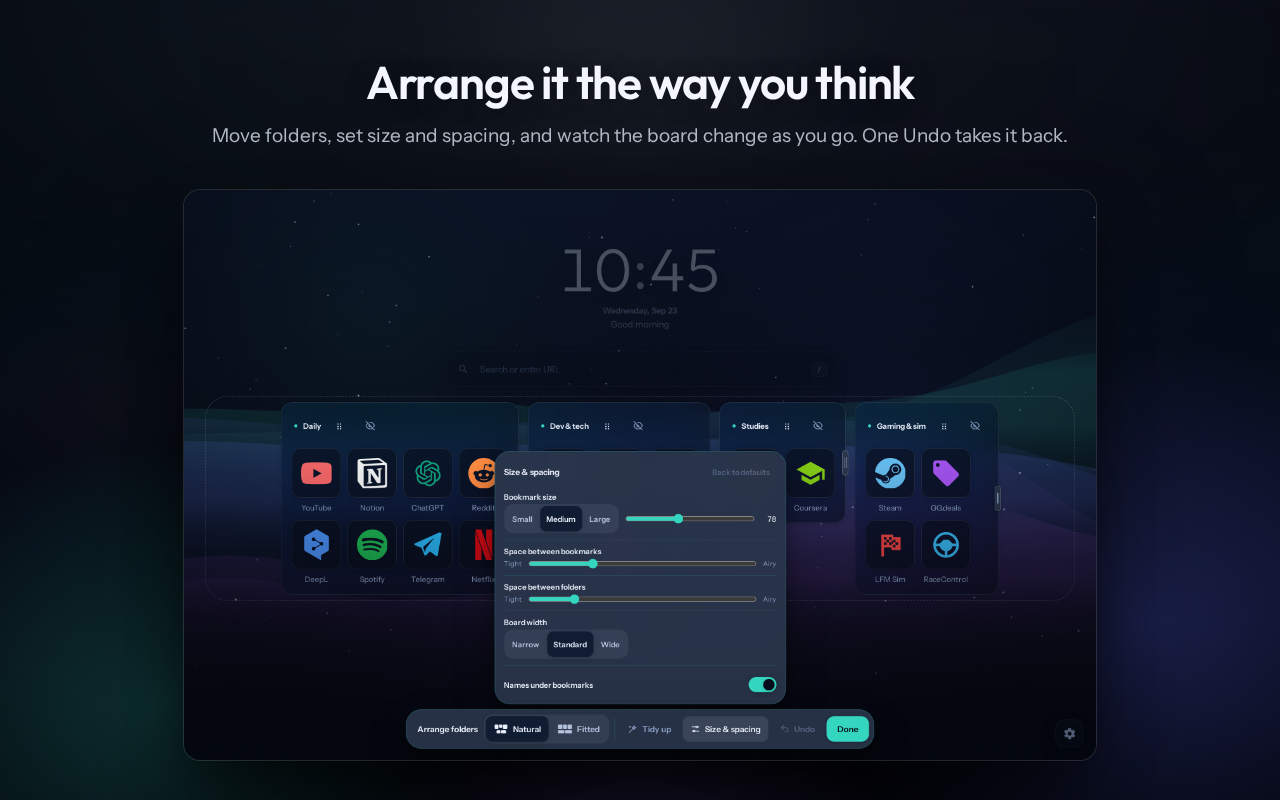
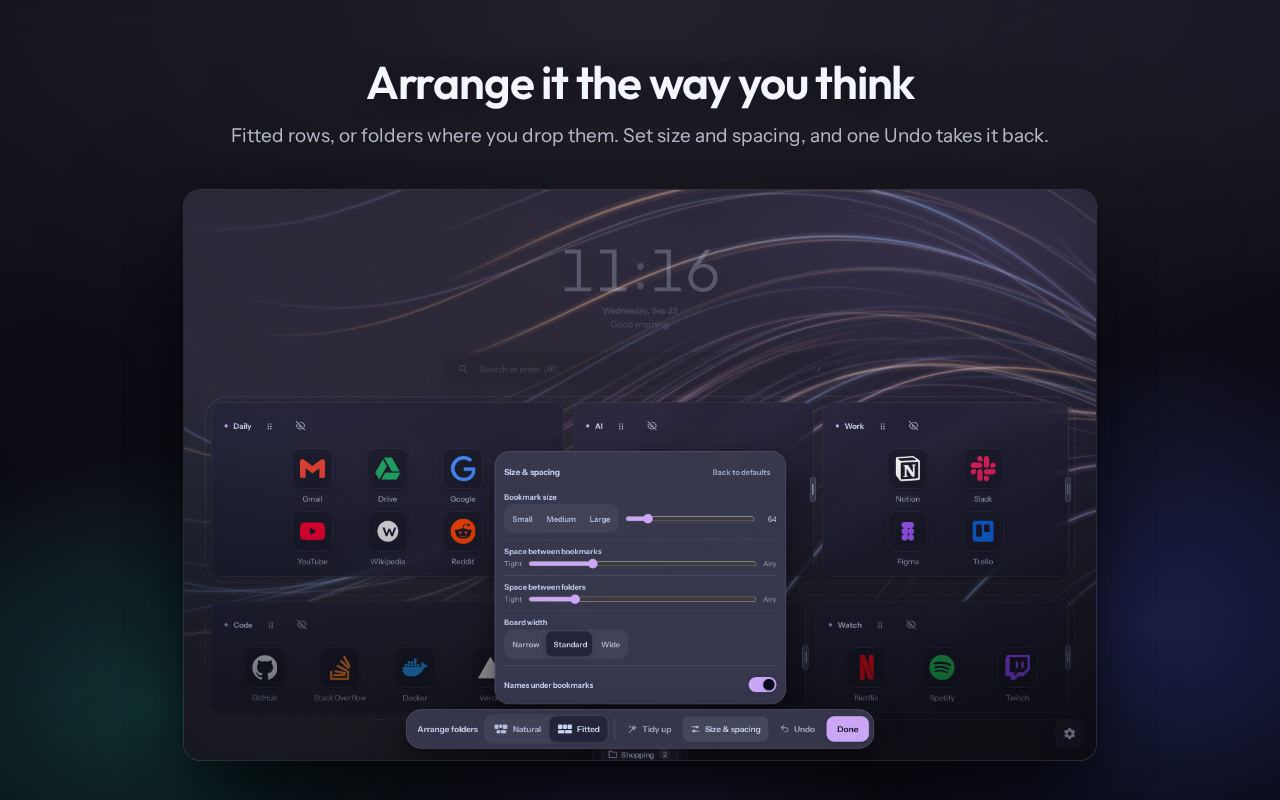
feat: store screenshots on a board anyone recognises, each in its own look
The five screenshots and the marquee are now taken from boards of well-known
sites (tools/artwork/store-board.cjs), one theme and scene per picture:
Aurora Void on Nordlys, Catppuccin Mocha on Silk in Fitted rows, Tokyo Night
on Halo, Dracula Velvet on Contour through the day, Porcelain Light beside
Gruvbox Dark, and Boreal Emerald for the marquee. Every look is one the
settings make. The bundled Claude icon was drawn as a letter R; it is the
Claude mark now.

diff --git a/src/js/icons-db.js b/src/js/icons-db.js
@@ -22,7 +22,7 @@ const ICONS_DB = {
 
   // ── AI & Machine Learning ─────────────────────────────────────────
   openai: { name: "ChatGPT", cat: "tech", vb: "0 0 24 24", p: "M20.562 10.188c.25-.688.313-1.376.25-2.063c-.062-.687-.312-1.375-.625-2c-.562-.937-1.375-1.687-2.312-2.125c-1-.437-2.063-.562-3.125-.312c-.5-.5-1.063-.938-1.688-1.25S11.687 2 11 2a5.17 5.17 0 0 0-3 .938c-.875.624-1.5 1.5-1.813 2.5c-.75.187-1.375.5-2 .875c-.562.437-1 1-1.375 1.562c-.562.938-.75 2-.625 3.063a5.44 5.44 0 0 0 1.25 2.874a4.7 4.7 0 0 0-.25 2.063c.063.688.313 1.375.625 2c.563.938 1.375 1.688 2.313 2.125c1 .438 2.062.563 3.125.313c.5.5 1.062.937 1.687 1.25S12.312 22 13 22a5.17 5.17 0 0 0 3-.937c.875-.625 1.5-1.5 1.812-2.5a4.54 4.54 0 0 0 1.938-.875c.562-.438 1.062-.938 1.375-1.563c.562-.937.75-2 .625-3.062c-.125-1.063-.5-2.063-1.188-2.876m-7.5 10.5c-1 0-1.75-.313-2.437-.875c0 0 .062-.063.125-.063l4-2.312a.5.5 0 0 0 .25-.25a.57.57 0 0 0 .062-.313V11.25l1.688 1v4.625a3.685 3.685 0 0 1-3.688 3.813M5 17.25c-.438-.75-.625-1.625-.438-2.5c0 0 .063.063.125.063l4 2.312a.56.56 0 0 0 .313.063c.125 0 .25 0 .312-.063l4.875-2.812v1.937l-4.062 2.375A3.7 3.7 0 0 1 7.312 19c-1-.25-1.812-.875-2.312-1.75M3.937 8.563a3.8 3.8 0 0 1 1.938-1.626v4.751c0 .124 0 .25.062.312a.5.5 0 0 0 .25.25l4.875 2.813l-1.687 1l-4-2.313a3.7 3.7 0 0 1-1.75-2.25c-.25-.937-.188-2.062.312-2.937M17.75 11.75l-4.875-2.812l1.687-1l4 2.312c.625.375 1.125.875 1.438 1.5s.5 1.313.437 2.063a3.7 3.7 0 0 1-.75 1.937c-.437.563-1 1-1.687 1.25v-4.75c0-.125 0-.25-.063-.312c0 0-.062-.126-.187-.188m1.687-2.5s-.062-.062-.125-.062l-4-2.313c-.125-.062-.187-.062-.312-.062s-.25 0-.313.062L9.812 9.688V7.75l4.063-2.375c.625-.375 1.312-.5 2.062-.5c.688 0 1.375.25 2 .688c.563.437 1.063 1 1.313 1.625s.312 1.375.187 2.062m-10.5 3.5l-1.687-1V7.063c0-.688.187-1.438.562-2C8.187 4.438 8.75 4 9.375 3.688a3.37 3.37 0 0 1 2.062-.313c.688.063 1.375.375 1.938.813c0 0-.063.062-.125.062l-4 2.313a.5.5 0 0 0-.25.25c-.063.125-.063.187-.063.312zm.875-2L12 9.5l2.187 1.25v2.5L12 14.5l-2.188-1.25z" },
-  claude: { name: "Claude / Anthropic", cat: "tech", vb: "0 0 24 24", p: "M17.41 19.83h-3.46l-1.95-5.18h-2.9v5.18H5.97V4.17h6.63c3.08 0 4.81 1.87 4.81 4.39 0 1.83-.98 3.25-2.61 3.91l2.61 7.36zm-5.18-8.91c1.38 0 2.04-.79 2.04-1.85 0-1.07-.66-1.84-2.04-1.84H9.1v3.69h3.13z" },
+  claude: { name: "Claude / Anthropic", cat: "tech", vb: "0 0 24 24", p: "m4.7144 15.9555 4.7174-2.6471.079-.2307-.079-.1275h-.2307l-.7893-.0486-2.6956-.0729-2.3375-.0971-2.2646-.1214-.5707-.1215-.5343-.7042.0546-.3522.4797-.3218.686.0608 1.5179.1032 2.2767.1578 1.6514.0972 2.4468.255h.3886l.0546-.1579-.1336-.0971-.1032-.0972L6.973 9.8356l-2.55-1.6879-1.3356-.9714-.7225-.4918-.3643-.4614-.1578-1.0078.6557-.7225.8803.0607.2246.0607.8925.686 1.9064 1.4754 2.4893 1.8336.3643.3035.1457-.1032.0182-.0728-.164-.2733-1.3539-2.4467-1.445-2.4893-.6435-1.032-.17-.6194c-.0607-.255-.1032-.4674-.1032-.7285L6.287.1335 6.6997 0l.9957.1336.419.3642.6192 1.4147 1.0018 2.2282 1.5543 3.0296.4553.8985.2429.8318.091.255h.1579v-.1457l.1275-1.706.2368-2.0947.2307-2.6957.0789-.7589.3764-.9107.7468-.4918.5828.2793.4797.686-.0668.4433-.2853 1.8517-.5586 2.9021-.3643 1.9429h.2125l.2429-.2429.9835-1.3053 1.6514-2.0643.7286-.8196.85-.9046.5464-.4311h1.0321l.759 1.1293-.34 1.1657-1.0625 1.3478-.8804 1.1414-1.2628 1.7-.7893 1.36.0729.1093.1882-.0183 2.8535-.607 1.5421-.2794 1.8396-.3157.8318.3886.091.3946-.3278.8075-1.967.4857-2.3072.4614-3.4364.8136-.0425.0304.0486.0607 1.5482.1457.6618.0364h1.621l3.0175.2247.7892.522.4736.6376-.079.4857-1.2142.6193-1.6393-.3886-3.825-.9107-1.3113-.3279h-.1822v.1093l1.0929 1.0686 2.0035 1.8092 2.5075 2.3314.1275.5768-.3218.4554-.34-.0486-2.2039-1.6575-.85-.7468-1.9246-1.621h-.1275v.17l.4432.6496 2.3436 3.5214.1214 1.0807-.17.3521-.6071.2125-.6679-.1214-1.3721-1.9246L14.38 17.959l-1.1414-1.9428-.1397.079-.674 7.2552-.3156.3703-.7286.2793-.6071-.4614-.3218-.7468.3218-1.4753.3886-1.9246.3157-1.53.2853-1.9004.17-.6314-.0121-.0425-.1397.0182-1.4328 1.9672-2.1796 2.9446-1.7243 1.8456-.4128.164-.7164-.3704.0667-.6618.4008-.5889 2.386-3.0357 1.4389-1.882.929-1.0868-.0062-.1579h-.0546l-6.3385 4.1164-1.1293.1457-.4857-.4554.0608-.7467.2307-.2429 1.9064-1.3114Z" },
   gemini: { name: "Gemini", cat: "tech", vb: "0 0 24 24", p: "M11.04 19.32Q12 21.51 12 24q0-2.49.93-4.68.96-2.19 2.58-3.81t3.81-2.55Q21.51 12 24 12q-2.49 0-4.68-.93a12.3 12.3 0 0 1-3.81-2.58 12.3 12.3 0 0 1-2.58-3.81Q12 2.49 12 0q0 2.49-.96 4.68-.93 2.19-2.55 3.81a12.3 12.3 0 0 1-3.81 2.58Q2.49 12 0 12q2.49 0 4.68.96 2.19.93 3.81 2.55t2.55 3.81" },
   perplexity: { name: "Perplexity", cat: "tech", vb: "0 0 24 24", p: "M22.3977 7.0896h-2.3106V.0676l-7.5094 6.3542V.1577h-1.1554v6.1966L4.4904 0v7.0896H1.6023v10.3976h2.8882V24l6.932-6.3591v6.2005h1.1554v-6.0469l6.9318 6.1807v-6.4879h2.8882V7.0896zm-3.4657-4.531v4.531h-5.355l5.355-4.531zm-13.2862.0676 4.8691 4.4634H5.6458V2.6262zM2.7576 16.332V8.245h7.8476l-6.1149 6.1147v1.9723H2.7576zm2.8882 5.0404v-3.8852h.0001v-2.6488l5.7763-5.7764v7.0111l-5.7764 5.2993zm12.7086.0248-5.7766-5.1509V9.0618l5.7766 5.7766v6.5588zm2.8882-5.0652h-1.733v-1.9723L13.3948 8.245h7.8478v8.087z" },
   huggingface: { name: "Hugging Face", cat: "tech", vb: "0 0 24 24", p: "M12 2a10 10 0 1 0 10 10A10 10 0 0 0 12 2zm-3.5 7a1.5 1.5 0 1 1-1.5 1.5A1.5 1.5 0 0 1 8.5 9zm7 0a1.5 1.5 0 1 1-1.5 1.5A1.5 1.5 0 0 1 15.5 9zm-3.5 8a5 5 0 0 1-4.24-2.36.75.75 0 0 1 1.28-.78A3.5 3.5 0 0 0 12 15.5a3.5 3.5 0 0 0 2.96-1.64.75.75 0 1 1 1.28.78A5 5 0 0 1 12 17z" },

diff --git a/docs/store-listing.md b/docs/store-listing.md
@@ -157,17 +157,18 @@ The generators are not part of `npm test`, since they assert nothing.
 
 | File | Size | Shows |
 | --- | --- | --- |
-| `screenshot-1-sky.png` | 1280x800 | "A new tab under a living sky": the board on the Aurora scene |
-| `screenshot-2-arrange.png` | 1280x800 | "Arrange it the way you think": Arrange with the Size & spacing panel open |
-| `screenshot-3-icons.png` | 1280x800 | "Every bookmark, the icon you want": the board, and the icon picker's address history |
-| `screenshot-4-daylight.png` | 1280x800 | "Lit by the time of day": the sky at dawn, day, sunset and night in Berlin |
-| `screenshot-5-themes.png` | 1280x800 | "Light or dark, always readable": Nordic Snow, and Aurora Void with the theme grid |
+| `screenshot-1-sky.png` | 1280x800 | "A new tab under a living sky": Aurora Void on the Nordlys scene |
+| `screenshot-2-arrange.png` | 1280x800 | "Arrange it the way you think": Catppuccin Mocha on Silk, Fitted, with Size & spacing open |
+| `screenshot-3-icons.png` | 1280x800 | "Every bookmark, the icon you want": Tokyo Night on Halo, and the icon picker's address history |
+| `screenshot-4-daylight.png` | 1280x800 | "Lit by the time of day": Dracula Velvet on Contour at dawn, day, sunset and night in Berlin |
+| `screenshot-5-themes.png` | 1280x800 | "Light or dark, always readable": Porcelain Light on Frost, and Gruvbox Dark on Silk with the theme grid |
 | `promo-marquee-1400x560.png` | 1400x560 | Marquee tile |
 | `promo-small-440x280.png` | 440x280 | Small tile |
 | `docs/brand/buymeacoffee-cover.png` | 2400x600 | Cover for the Buy Me a Coffee page (not uploaded to the store) |
 
 Each screenshot is a headline over the real product captured at twice its
-pixels (`store-shots.spec.cjs`); the layouts live in `compose.cjs`. Upload the
+pixels (`store-shots.spec.cjs`) on a board of well-known sites
+(`store-board.cjs`), each in its own theme and scene; the layouts live in `compose.cjs`. Upload the
 screenshots in number order: the first is the one the store shows in search.
 To regenerate only these, without touching the README images:
 `npx playwright test --config=tools/artwork/playwright.config.cjs store-shots promo`.
